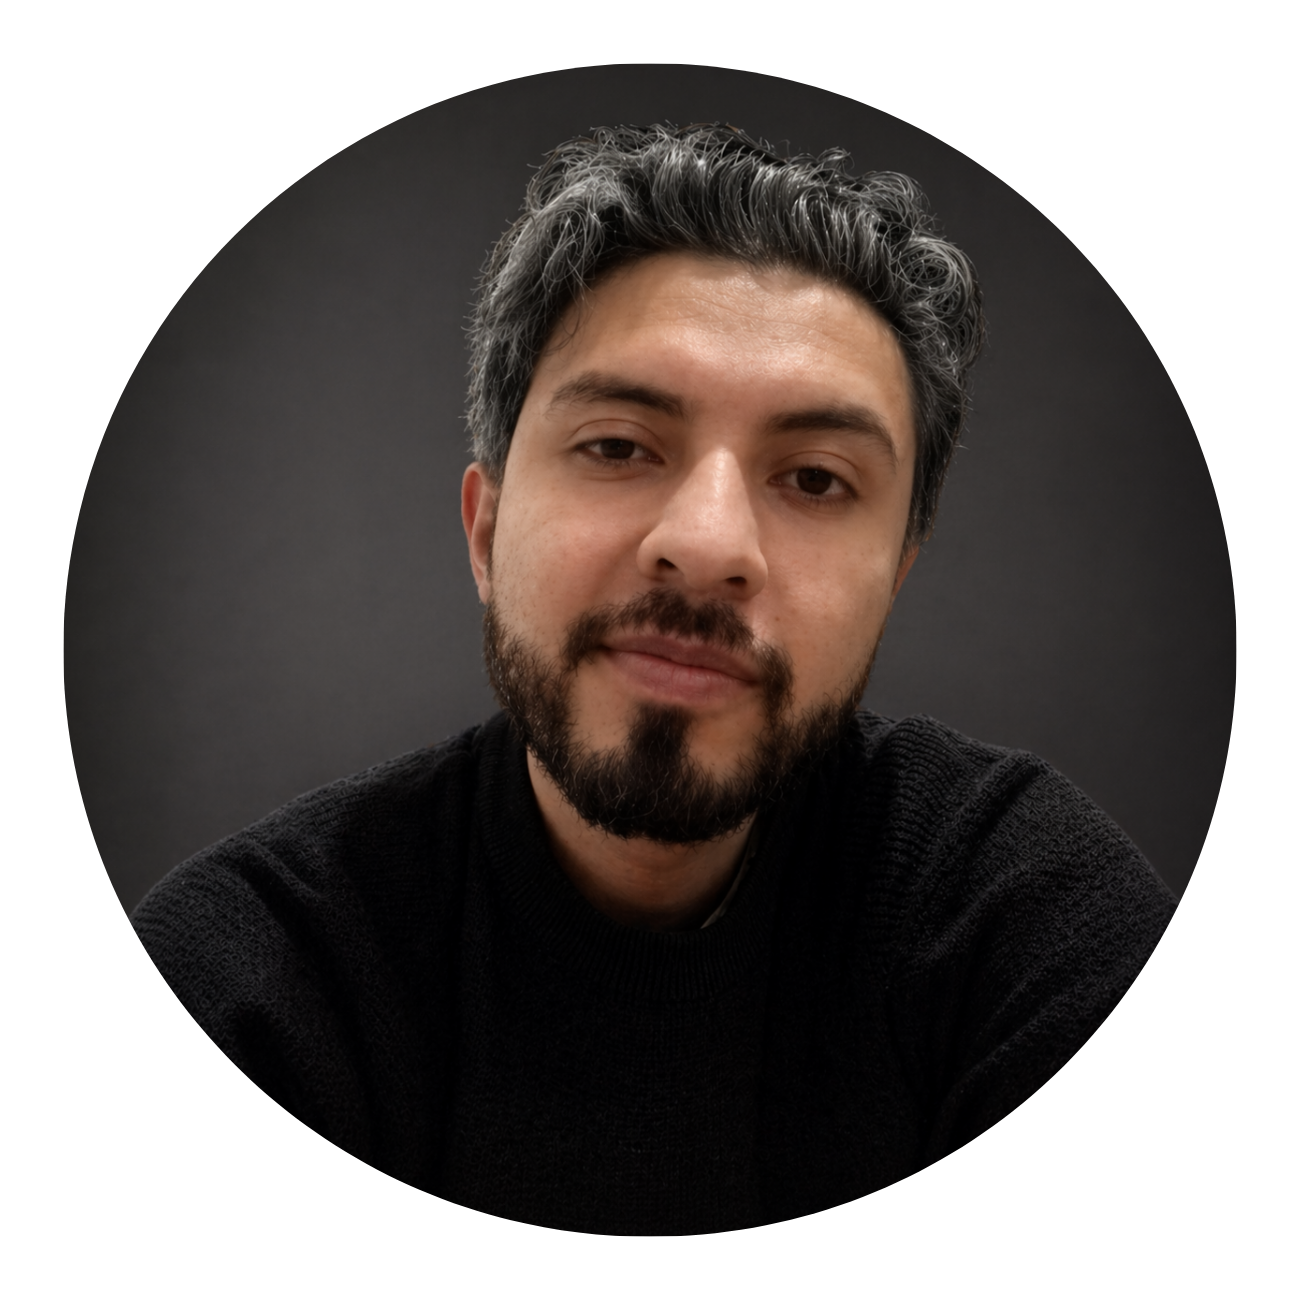
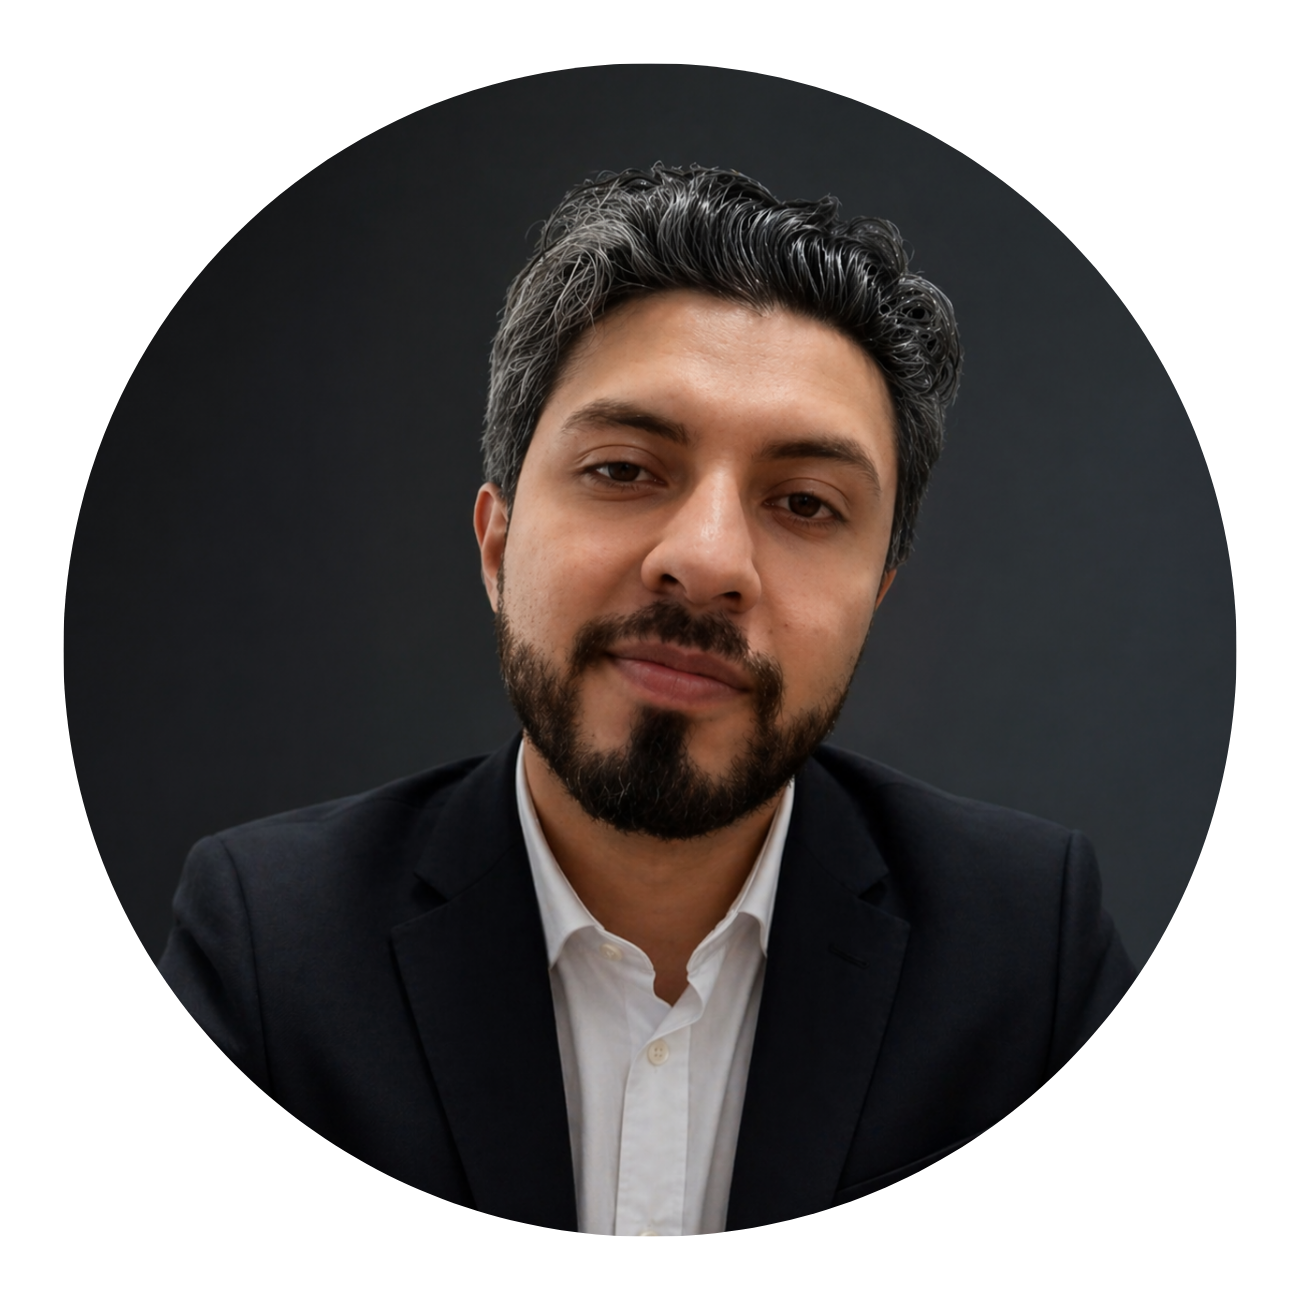
foto de robin

Changed region(s): [[0.0923, 0.0923, 0.8923, 0.9538], [0.1231, 0.7385, 0.1538, 0.8]]

diff --git a/js/habitaciones.js b/js/habitaciones.js
@@ -1,7 +1,7 @@
 const CLAVE_HABITACIONES = 'habitacionesHuellas'; // Clave para almacenar las habitaciones en localStorage
 
 const habitacionesIniciales = [// Datos de para inicializar las habitaciones
-  { id: 1, nombre: "ALOJAMIENTO", precio: 340000, imagen: "", descripcion: "Elegante esia cotancn cama gfgfgfgfgdfgdfgddfgdfgdfgdfghghghg.", mostrar: true },
+  { id: 1, nombre: "ALOJAMIENTO", precio: 340000, imagen: "huellas_de_la_pola\assets\habitaciones\habitacion1.png", descripcion: "Elegante esia cotancn cama gfgfgfgfgdfgdfgddfgdfgdfgdfghghghg.", mostrar: true },
   { id: 2, nombre: "Habitación 2", precio: 700000, imagen: "", descripcion: "Suite de lujo con balcón.", mostrar: true },
   { id: 3, nombre: "Habitación 3", precio: 250000, imagen: ".", descripcion: "Habitación temática botánica.", mostrar: true },
   { id: 4, nombre: "Habitación 4", precio: 800000, imagen: ".", descripcion: "Suite familiar espaciosa.", mostrar: true },